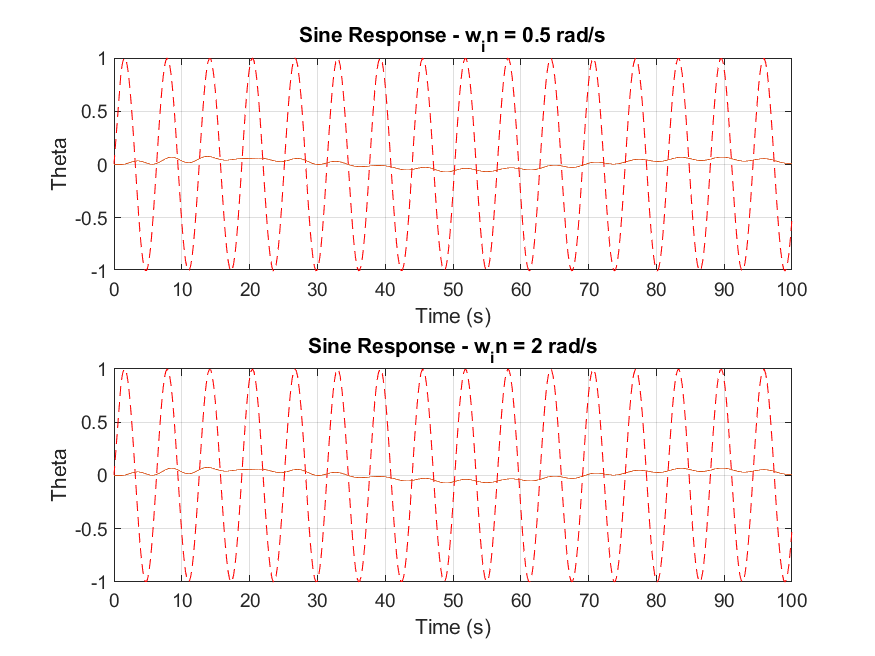
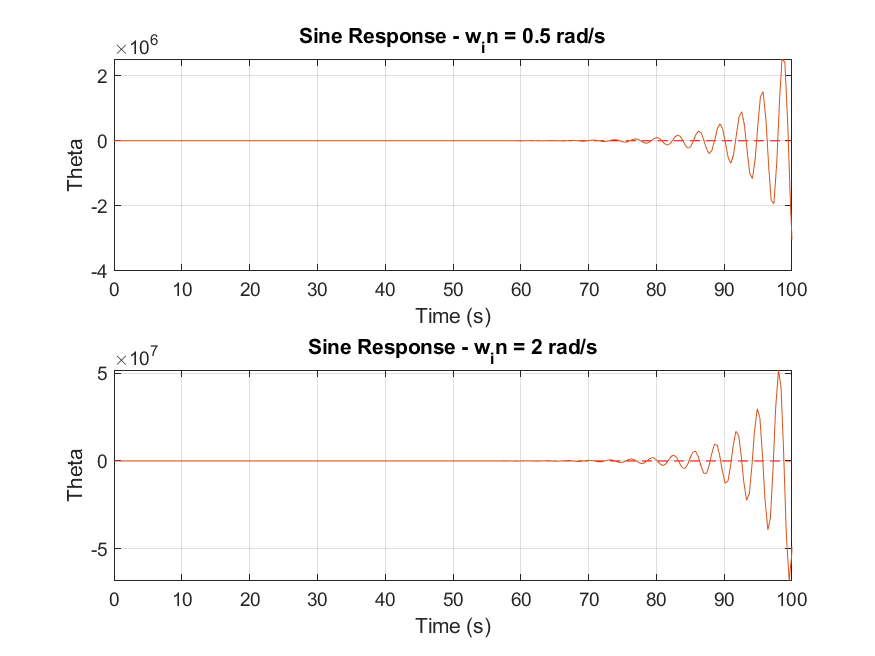
Prob 3 steup

diff --git a/carson.m b/carson.m
@@ -79,18 +79,19 @@ saveas(gcf, 'figs/phase_plot.png');
 % saveas(gcf, 'figs/nyquist_plot_combined.png');
 
 %%%%% Problem 3 %%%%%
+disp('--- Problem 3 ---')
 cz1 = 1;
-cp1 = 2;
+cp1 = 0.2;
 C1 = (s+cz1)/(s+cp1);
 
-K_c = 10;
+K_c = 100;
 C = C1*K_c;
 
 [mag, phase, wout] = bode(C*G, freq);
 mag = squeeze(mag);
 phase = squeeze(phase);
 
-% Find zero crossings with linear interpolation
+% Find zero crossings on the bode plot with linear interpolation
 zero_crossings = [];
 for i = 1:length(mag)-1
     if (mag(i) - 1) * (mag(i+1) - 1) <= 0 % Check if there is a sign change
@@ -109,22 +110,70 @@ end
 disp('Zero crossing frequencies (Hz):');
 disp(zero_crossings);
 
+% Get the phase margin and gain margin at the zero crossings
+for i = 1:length(zero_crossings)
+    % Get the closest phase value in the fitted plot to the zero crossing frequency
+    [~, idx] = min(abs(freq - zero_crossings(i)));
+    zc_phase(i) = phase(idx);
+    pm(i) = zc_phase(i) + 180;
+end
+disp('Phase margin at zero crossings (deg):');
+disp(pm);
+
+% Find -180 degree crossings with linear interpolation
+phase_180_crossings = [];
+for i = 1:length(phase)-1
+    if (phase(i) + 180) * (phase(i+1) + 180) <= 0 % Check if there is a sign change around -180
+        % Linear interpolation between points
+        x1 = freq(i);
+        x2 = freq(i+1);
+        y1 = phase(i) + 180;
+        y2 = phase(i+1) + 180;
+        
+        % Calculate exact crossing point
+        crossover_freq = x1 - y1*(x2 - x1)/(y2 - y1);
+        phase_180_crossings = [phase_180_crossings, crossover_freq];
+    end
+end
+
+if isempty(phase_180_crossings)
+    disp('Infinite gain margin');
+else
+    % Calculate gain margins at each -180 degree crossing
+    for i = 1:length(phase_180_crossings)
+        [~, idx] = min(abs(freq - phase_180_crossings(i)));
+        gm(i) = -db(mag(idx));  % Gain margin in dB
+    end
+    disp('Gain margins (dB):');
+    disp(gm);
+end
+
+% Find -3dB crossing (bandwidth)
+bandwidth_idx = find(db(mag) <= -3, 1, 'first');
+if ~isempty(bandwidth_idx)
+    bandwidth_freq = freq(bandwidth_idx);
+    disp(['Bandwidth = ', num2str(bandwidth_freq), ' Hz']);
+end
+
 % Plot the bode plot
 figure(bode_fig);
 hold on;
+semilogx(freq, db(mag), 'g');
+scatter(phase_180_crossings, -gm, 'r', 'o');
 yline(0, 'k--');
 for i = 1:length(zero_crossings)
     xline(zero_crossings(i), 'k--');
 end
-semilogx(freq, db(mag), 'g');
-legend('P', 'P(s)', 'C(s)*P(s)');
+legend('P', 'P(s)', 'C(s)*P(s)', 'Gain Margin Points');
 saveas(gcf, 'figs/bode_plot.png');
 
 % Plot the phase plot
 figure(phase_fig);
 hold on;
 semilogx(freq, phase, 'g');
-legend('P', 'P(s)', 'C(s)*P(s)');
+scatter(zero_crossings, zc_phase, 'r', 'o');
+yline(-180, 'k--');
+legend('P', 'P(s)', 'C(s)*P(s)', 'Phase Margin Points');
 saveas(gcf, 'figs/phase_plot.png');
 
 numC = C.Numerator{1};
@@ -134,7 +183,7 @@ denC = C.Denominator{1};
 
 % Step response
 out = sim('model_step', 'StopTime', '100');  % Set simulation time to 100 seconds
-disp(pole(G))
+% disp(pole(G))
 
 figure;
 plot(out.input.Time, out.input.Data, 'r--');
@@ -151,7 +200,7 @@ w_in_set = [0.5, 2]; % rad/s
 for i = 1:length(w_in_set)
     w_in = w_in_set(i);
     out(i) = sim('model_sine', 'StopTime', '100');  % Set simulation time to 100 seconds
-    disp(pole(G))
+    % disp(pole(G))
 end
 
 figure;
